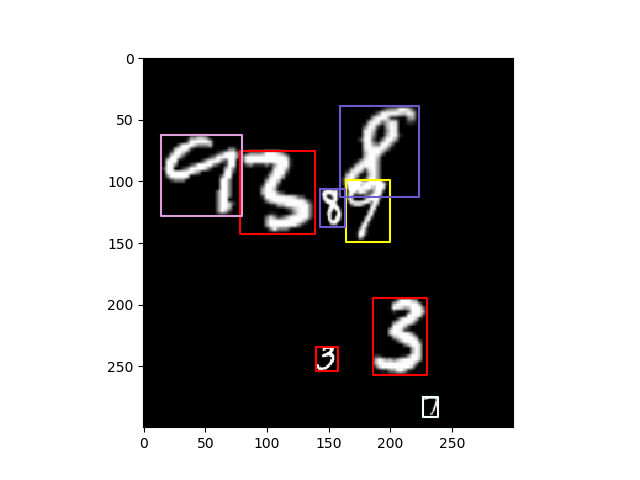
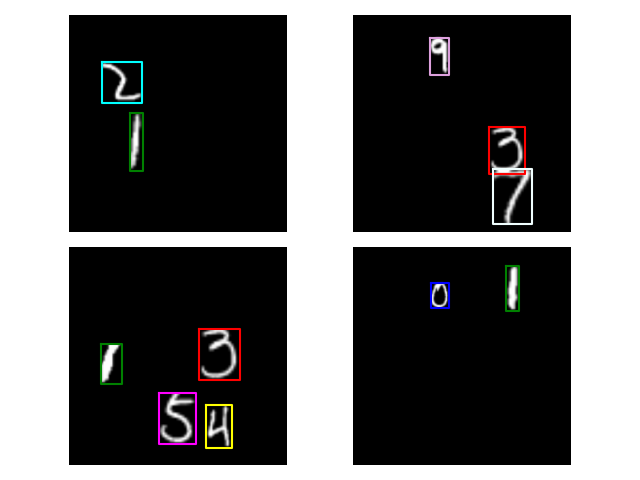
MNIST-ObjectDetection: update visualize dataset script to show multiple images on one figure

diff --git a/MNIST-ObjectDetection/visualize_dataset.py b/MNIST-ObjectDetection/visualize_dataset.py
@@ -40,8 +40,12 @@ if __name__ == "__main__":
     base_path = pathlib.Path(args.directory)
     image_dir = base_path.joinpath("images")
     label_dir = base_path.joinpath("labels")
-    impaths = image_dir.glob("*.png")
-    for impath in impaths:
+    impaths = list(image_dir.glob("*.png"))
+    for i in range(4):
+        plt.subplot(2, 2, i + 1)
+        plt.axis(False)
+
+        impath = impaths[i]
         label_path = label_dir.joinpath(
             f"{impath.stem}.txt"
         )
@@ -50,5 +54,7 @@ if __name__ == "__main__":
         plt.imshow(im, cmap="gray")
         for bbox, label in zip(bboxes_XYXY, labels):
             plot_bbox(bbox, label, im.shape[0])
-        plt.savefig("example_image.png")
-        plt.show()
+
+    plt.tight_layout()
+    plt.savefig("example_image.png")
+    plt.show()
